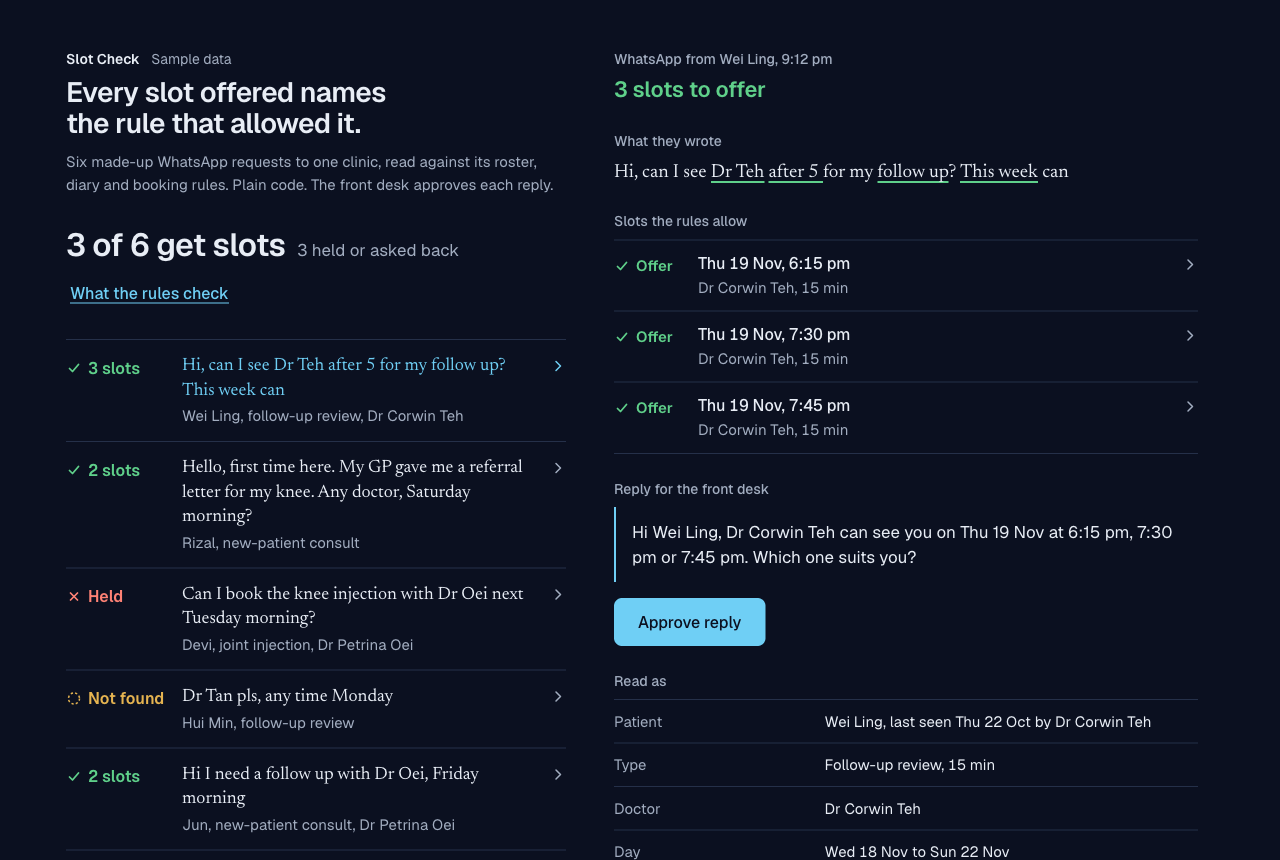
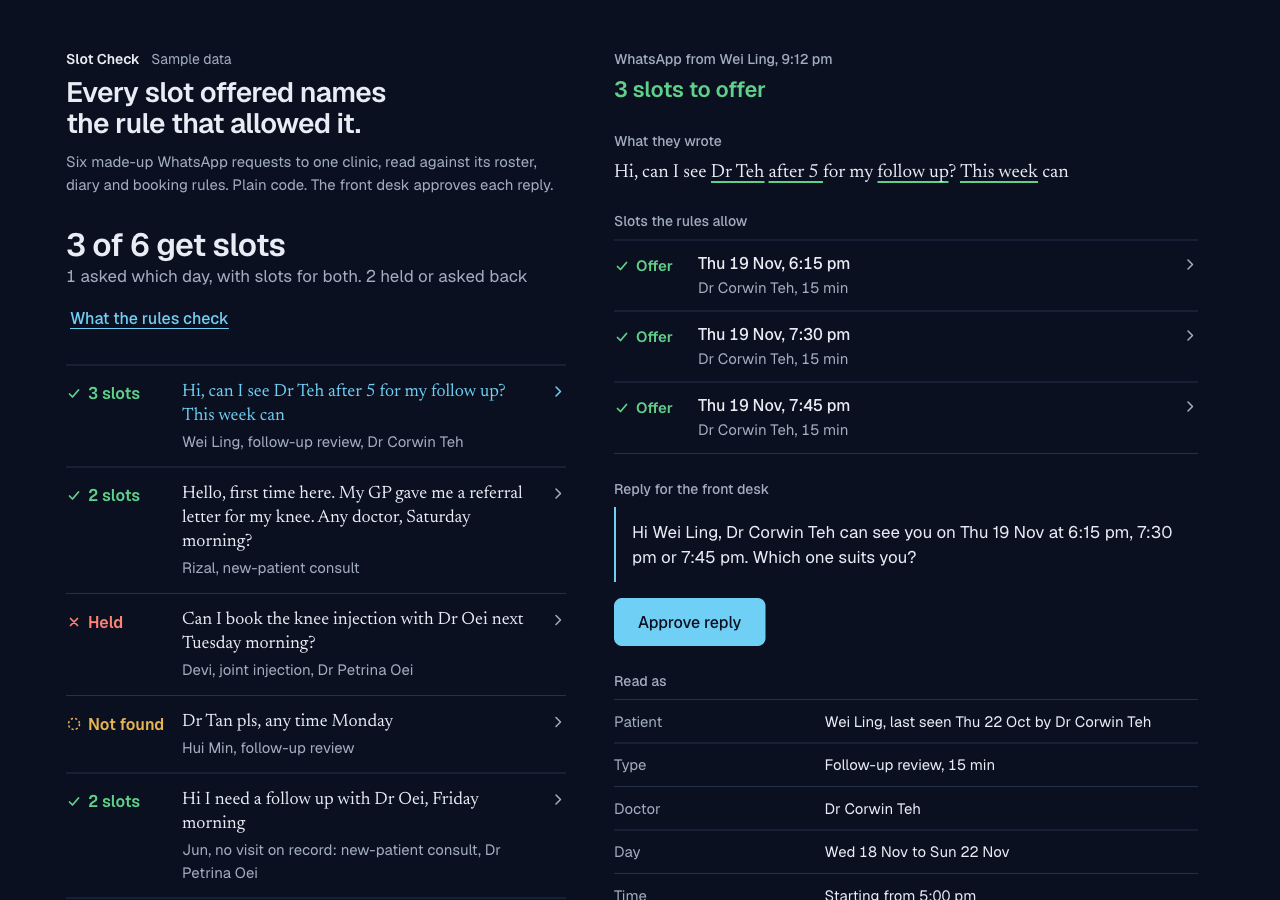
Apply review: changes and cancellations go to the front desk, Jun's row shows the switch to a new-patient consult, bare times read, a same-day weekday after its session reads as next week, days a doctor is not in are named, summary counts the asked-which-day request, footer kept left on desktop, re-

diff --git a/check.js b/check.js
@@ -165,6 +165,10 @@ export function readMessage(text, sentIso) {
   ]) for (const m of all(re, text)) types.push({ code, ref: claim(span(m)) });
   if (types.length) out.type = types;
 
+  // a change or a cancellation is about a booking already made, not a new one
+  const ch = /\b(cancel\w*|resched\w*|postpone\w*|(?:change|move|shift)\s+my\s+(?:appt|appointment|booking|slot))\b/i.exec(text);
+  if (ch) out.change = claim(span(ch));
+
   // time window, by W1 and W2; several are intersected
   const windows = [];
   for (const [re, from, to] of [
@@ -180,6 +184,12 @@ export function readMessage(text, sentIso) {
     if (w === "after" || w === "from") windows.push({ from: h.min, to: 1440, ref: r, rule: h.rule });
     else if (w === "before") windows.push({ from: 0, to: h.min, ref: r, rule: h.rule });
     else windows.push({ from: h.min, to: h.min + 1, ref: r, rule: h.rule });
+  }
+  for (const m of all(/(?<![\w/:.])(\d{1,2})(?:[:.](\d{2}))?\s*(am|pm)\b/gi, text)) {
+    const r = span(m);
+    if (overlaps(r, taken)) continue;
+    const h = hourOf(m[1], m[2], m[3]);
+    if (h) windows.push({ from: h.min, to: h.min + 1, ref: claim(r), rule: null });
   }
   for (const m of all(/\bany\s*time\b/gi, text)) windows.push({ from: 0, to: 1440, ref: claim(span(m)), rule: null });
   if (windows.length) {
@@ -209,7 +219,7 @@ export function readMessage(text, sentIso) {
     if (mod === "next") {
       if (wd > todayWd) days.push({ dates: [today + ahead], ambiguous: [today + ahead, today + ahead + 7], ref: r, rule: "W3" });
       else days.push({ dates: [today + (ahead === 0 ? 7 : ahead)], ref: r });
-    } else days.push({ dates: [today + ahead], ref: r });
+    } else days.push({ dates: ahead === 0 ? [today, today + 7] : [today + ahead], ref: r });
   }
   const mon = MONTHS.join("|");
   for (const m of all(new RegExp(`\\b(\\d{1,2})\\s*(?:st|nd|rd|th)?\\s+(${mon})[a-z]*\\b`, "gi"), text)) pushDate(days, +m[1], MONTHS.indexOf(m[2].slice(0, 3).toLowerCase()), null, span(m), today);
@@ -263,7 +273,7 @@ function search(world, { type, doctors, dates, window, sent }) {
       const sessions = world.roster.filter((s) => s.doctor === doc && s.day === DAYS[weekday(day)]);
       const fit = sessions.filter((s) => s.kind === T.session_kind);
       if (!sessions.length) {
-        if (dates.length <= 2) notes.push({ day, text: `${docName(world, doc)} has no session on ${dayLabel(day)}.`, refs: [ruleRef(world, "R2")] });
+        if (dates.length <= 2) notes.push({ day, text: `${docName(world, doc)} has no session on ${dayLabel(day)}.`, refs: [ruleRef(world, "R2")], nosession: true, doctor: doc });
         continue;
       }
       if (!fit.length) {
@@ -443,6 +453,9 @@ export function checkRequest(world, msg) {
   if (!read.refs.length) {
     held = { state: "none", kind: "unread", why: "Nothing in the message names a doctor, a type, a day or a time. Slots are not offered on a guess. The reply asks what they need.", whyRefs: [] };
   }
+  if (read.change) {
+    held = { state: "none", kind: "change", why: `"${read.change.text}" is about a booking already made. It goes to the front desk; no new slot is offered.`, whyRefs: [read.change] };
+  }
   if (held) {
     Object.assign(res, held);
     return finish(world, res);
@@ -465,7 +478,15 @@ export function checkRequest(world, msg) {
       Object.assign(res, { state: "none", kind: "holiday", why: hol.text, whyRefs: hol.refs, holiday: hol });
       res.notes = res.notes.filter((n) => n !== hol);
     }
-    else Object.assign(res, { state: "none", kind: "noslot", why: "No slot fits what was asked. The reply asks about another day or time.", whyRefs: [] });
+    else {
+      const ns = res.notes.filter((n) => n.nosession);
+      if (ns.length && res.readings.every((r) => r.dates.every((d) => ns.some((n) => n.day === d)))) {
+        Object.assign(res, { state: "none", kind: "noslot", why: ns.map((n) => n.text).join(" "), whyRefs: ns.flatMap((n) => n.refs), away: ns });
+      } else Object.assign(res, { state: "none", kind: "noslot", why: "No slot fits what was asked. The reply asks about another day or time.", whyRefs: [] });
+    }
+  }
+  if (res.changed && res.state === "pass") {
+    Object.assign(res, { why: "Asked for a follow-up, but this number has no visit on record. Offered a new-patient consult instead.", whyRefs: [ruleRef(world, "R7")] });
   }
   return finish(world, res);
 }
@@ -482,7 +503,7 @@ function finish(world, res) {
   res.offered = offered;
   res.allowedCount = res.readings.reduce((n, r) => n + (r.allowed?.length || 0), 0);
   res.blockedCount = res.readings.reduce((n, r) => n + (r.blocked?.length || 0), 0);
-  res.label = res.state === "pass" ? `${offered.length} slot${offered.length === 1 ? "" : "s"}` : { ask: "Ask", "ask-type": "Ask", unread: "Not read", doctor: "Not found", noslot: "No slot", holiday: "Closed", date: "Ask", time: "Ask" }[res.kind] || "Held";
+  res.label = res.state === "pass" ? `${offered.length} slot${offered.length === 1 ? "" : "s"}` : { ask: "Ask", "ask-type": "Ask", unread: "Not read", doctor: "Not found", noslot: "No slot", holiday: "Closed", change: "Front desk", date: "Ask", time: "Ask" }[res.kind] || "Held";
   res.reply = draftReply(world, res);
   return res;
 }
@@ -526,6 +547,8 @@ export function draftReply(world, res) {
   if (res.kind === "date") return `${hi}which day would you like to come in?`;
   if (res.kind === "time") return `${hi}what time of day suits you?`;
   if (res.kind === "holiday") return `${hi}the clinic is closed on ${dayLabel(res.holiday.day)} for ${res.holiday.holiday}. Would another day work?`;
+  if (res.kind === "change") return `${hi}thanks for letting us know. Our front desk will find your booking and reply here shortly.`;
+  if (res.kind === "noslot" && res.away) return `${hi}${docName(world, res.away[0].doctor)} isn't in clinic on ${joinOr([...new Set(res.away.map((n) => dayLabel(n.day)))])}. Would another day work?`;
   if (res.kind === "noslot") return `${hi}there's nothing free at the time you asked. Would another day or time work?`;
   return `${hi}thanks for your message. Our front desk will check this one and come back to you.`;
 }

diff --git a/app.js b/app.js
@@ -151,7 +151,7 @@ function blockedRow(b) {
 function detail(r, { own = false } = {}) {
   const box = el("div", "evidence");
   box.append(el("p", "side-h", own ? "Your message" : `WhatsApp from ${r.name}, ${timeOf(r.msg.at)}`));
-  const titleText = r.state === "pass" ? `${r.offered.length} slot${r.offered.length === 1 ? "" : "s"} to offer` : r.kind === "ask" ? "Ask which day" : r.kind === "doctor" ? "Doctor not found" : r.kind === "holiday" ? "Clinic closed" : r.kind === "noslot" ? "No slot fits" : r.kind === "unread" ? "Nothing read" : r.state === "fail" ? "Held for the front desk" : "Ask the patient";
+  const titleText = r.state === "pass" ? `${r.offered.length} slot${r.offered.length === 1 ? "" : "s"} to offer` : r.kind === "ask" ? "Ask which day" : r.kind === "doctor" ? "Doctor not found" : r.kind === "holiday" ? "Clinic closed" : r.kind === "noslot" ? "No slot fits" : r.kind === "unread" ? "Nothing read" : r.kind === "change" ? "For the front desk" : r.state === "fail" ? "Held for the front desk" : "Ask the patient";
   box.append(el("p", `side-title st-${r.state}`, titleText));
 
   if (r.why) {
@@ -164,8 +164,9 @@ function detail(r, { own = false } = {}) {
 
   box.append(el("p", "ev-h", own ? "What you wrote" : "What they wrote"));
   const badMsg = new Set(r.whyRefs.filter((x) => x.doc === "msg").map((x) => x.start));
+  if (r.changed) for (const t of r.read.type || []) badMsg.add(t.ref ? t.ref.start : t.start);
   const q = el("p", "quote");
-  q.append(marked(r.msg.text, r.read.refs.map((x) => ({ ...x, tone: badMsg.has(x.start) ? r.state : "pass" }))));
+  q.append(marked(r.msg.text, r.read.refs.map((x) => ({ ...x, tone: badMsg.has(x.start) ? (r.changed ? "none" : r.state) : "pass" }))));
   box.append(q);
   if (!r.read.refs.length) box.append(el("p", "muted-line", "No word in it was read."));
 
@@ -252,10 +253,11 @@ function statusCell(r) {
 
 function render({ keep = false } = {}) {
   const pass = results.filter((r) => r.state === "pass").length;
+  const both = results.filter((r) => r.kind === "ask" && r.offered.length).length;
   const sum = $("summary");
   sum.replaceChildren(
     el("span", "sum-main", `${pass} of ${results.length} get slots`),
-    el("span", "sum-side muted", `${results.length - pass} held or asked back`),
+    el("span", "sum-side muted", `${both ? `${both} asked which day, with slots for both. ` : ""}${results.length - pass - both} held or asked back`),
   );
   const ul = el("ul", `rows${firstRender ? "" : keep ? "" : " fresh"}`);
   for (const r of results) {
@@ -264,7 +266,7 @@ function render({ keep = false } = {}) {
     b.type = "button";
     b.setAttribute("aria-expanded", String(openId === r.id));
     const val = el("span", "val");
-    val.append(el("b", null, r.msg.text), el("span", "meta", `${r.name}, ${typeName(r).toLowerCase()}${r.doctors?.length === 1 ? `, ${world.doctors.find((d) => d.short === r.doctors[0]).name}` : ""}`));
+    val.append(el("b", null, r.msg.text), el("span", "meta", `${r.name}, ${r.changed ? "no visit on record: " : ""}${typeName(r).toLowerCase()}${r.doctors?.length === 1 ? `, ${world.doctors.find((d) => d.short === r.doctors[0]).name}` : ""}`));
     const chev = icon("chev");
     chev.classList.add("chev");
     b.append(statusCell(r), val, chev);

diff --git a/check.test.js b/check.test.js
@@ -10,7 +10,7 @@ const times = (slots) => slots.map((s) => `${dayLabel(s.day)} ${hhmm(s.start)}`)
 const ask = (text, from = "+65 9••• 2141", at = SENT_AT) => checkRequest(world, { id: "t", from, name: "Sam", at, text });
 const NEW_NUMBER = "+65 9••• 0000";
 
-test("sample: 3 of 6 requests get slots, 3 are held or asked back", () => {
+test("sample: 3 of 6 requests get slots, 1 is asked which day with slots for both, 2 are held or asked back", () => {
   assert.deepEqual(all.map((r) => [r.name, r.state, r.label]), [
     ["Wei Ling", "pass", "3 slots"],
     ["Rizal", "pass", "2 slots"],
@@ -222,4 +222,35 @@ test("every reference points at the exact text it claims", () => {
     n++;
   }
   assert.ok(n > 100);
+});
+
+test("a cancellation or a change is passed to the front desk, not booked", () => {
+  for (const text of ["I want to cancel my appointment", "Can I change my appointment to Thursday?", "need to reschedule pls"]) {
+    const r = ask(text, "+65 8••• 7730");
+    assert.equal(r.kind, "change", text);
+    assert.equal(r.offered.length, 0, text);
+    assert.match(r.reply, /front desk will find your booking/, text);
+  }
+});
+
+test("Jun: the switch to a new-patient consult leads the panel", () => {
+  const r = by("Jun");
+  assert.equal(r.changed, true);
+  assert.match(r.why, /no visit on record\. Offered a new-patient consult instead/);
+});
+
+test("a bare time like 9am is read", () => {
+  assert.equal(ask("Dr Teh sat 9am").read.window.from, 540);
+});
+
+test("'Wed' sent on a Wednesday evening reads as next Wednesday once today's session is over", () => {
+  const r = ask("Dr Oei Wed afternoon", "+65 8••• 7730");
+  assert.equal(r.state, "pass");
+  assert.equal(times(r.offered)[0], "Wed 25 Nov 14:45");
+});
+
+test("a day the doctor is not in says so in the reply", () => {
+  const r = ask("follow up with Dr Oei on Thursday", "+65 8••• 7730");
+  assert.equal(r.kind, "noslot");
+  assert.match(r.reply, /isn't in clinic on Thu 19 Nov/);
 });

diff --git a/style.css b/style.css
@@ -163,11 +163,11 @@ a { color: var(--accent); text-underline-offset: 3px; text-decoration-thickness:
   .shell {
     max-width: 1180px; display: grid; column-gap: var(--s7);
     grid-template-columns: minmax(380px, 1fr) minmax(0, 600px);
-    grid-template-areas: "sheet side" "own side" "srcs side" "foot foot";
+    grid-template-areas: "sheet side" "own side" "srcs side" "foot side";
     align-items: start; padding-top: var(--s7);
   }
   .sheet-col { grid-area: sheet; }
-  .evidence-col { display: block; grid-area: side; grid-row: 1 / span 3; position: sticky; top: var(--s5); max-height: calc(100vh - 48px); overflow: auto; padding: 0 var(--s4) var(--s5) 0; }
+  .evidence-col { display: block; grid-area: side; grid-row: 1 / span 4; position: sticky; top: var(--s5); max-height: calc(100vh - 48px); overflow: auto; padding: 0 var(--s4) var(--s5) 0; }
   #own-tool { grid-area: own; }
   #src-tool { grid-area: srcs; }
   .foot { grid-area: foot; }

diff --git a/README.md b/README.md
@@ -43,6 +43,7 @@ The proposal would then go through the same checks, so a receptionist only appro
 - An offered slot is not held. Two patients offered the same time (Jun and Farah on Friday at 10:15 am in the sample) could both say yes. The real version would hold a slot for a short time or confirm on a first-come basis.
 - "Starting before 10" means the appointment starts before 10, not that it ends by then.
 - Referral rules are one yes or no per type. Insurer or panel rules are not modelled.
+- Changes and cancellations are spotted and passed to the front desk. The page does not look up the booking being changed.
 - Nothing is sent. "Approve reply" only marks the reply as approved on this page.
 
 ## Run the tests
@@ -51,7 +52,7 @@ The proposal would then go through the same checks, so a receptionist only appro
 node --test
 ```
 
-Needs Node 20 or later. No dependencies. 28 tests cover the sample result, a cancelled booking, buffers on both sides of a slot, the session end, doctors who do not take a type, the referral rule (with and without a letter on file), an injection in a consult session, a doctor not on the list, a follow-up from a new number, "next Fri" and "next Tuesday" on a Wednesday, the last doctor seen, Christmas Day, a date past the export, dates that are not dates or have passed, two hours' notice, hours with no am or pm, times that cannot both hold, a message with nothing readable, two types in one message, the three-slot cap, that every offered slot clears every live booking and its buffer, and that every reference points at the exact text it claims.
+Needs Node 20 or later. No dependencies. 33 tests cover the sample result, a cancelled booking, a request to cancel or change a booking, a bare time like "9am", a weekday named on that same weekday after its session, a day the doctor is not in, buffers on both sides of a slot, the session end, doctors who do not take a type, the referral rule (with and without a letter on file), an injection in a consult session, a doctor not on the list, a follow-up from a new number, "next Fri" and "next Tuesday" on a Wednesday, the last doctor seen, Christmas Day, a date past the export, dates that are not dates or have passed, two hours' notice, hours with no am or pm, times that cannot both hold, a message with nothing readable, two types in one message, the three-slot cap, that every offered slot clears every live booking and its buffer, and that every reference points at the exact text it claims.
 
 ## Open the page locally
 
@@ -69,7 +70,7 @@ Fonts: Geist and Newsreader (SIL Open Font License), in `fonts/`.
 
 ## Provenance
 
-Built on 18 Nov 2026 with AI coding agents, directed by Arnold Ikpemosi Adeyemi. The clinic (Wrenfield Orthopaedic Clinic), the doctors (Dr Corwin Teh, Dr Petrina Oei, Dr Imran Saffuan), the patients, the masked phone numbers, the roster and the diary are made up. Web searches for the clinic name and for each doctor's name on 18 Nov 2026 found no clinic or doctor by those names. Patients have first names only. The public holidays are Singapore's gazetted 2026 dates (Ministry of Manpower).
+Built on 18 Nov 2026 with AI coding agents, directed by Arnold Ikpemosi Adeyemi. The clinic (Wrenfield Orthopaedic Clinic), the doctors (Dr Corwin Teh, Dr Petrina Oei, Dr Imran Saffuan), the patients, the masked phone numbers, the roster and the diary are made up. Web searches for the clinic name and for each doctor's name on 18 Nov 2026 found no clinic or doctor by those names. Patients have first names only. The two public holidays in the table are from Singapore's gazetted 2026 list (Ministry of Manpower).
 
 ## Licence
 
